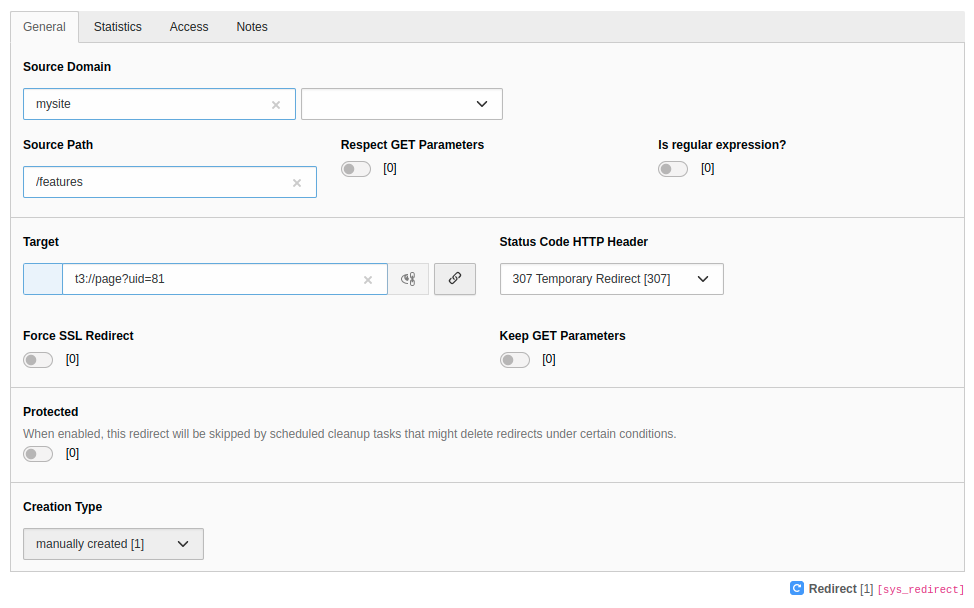
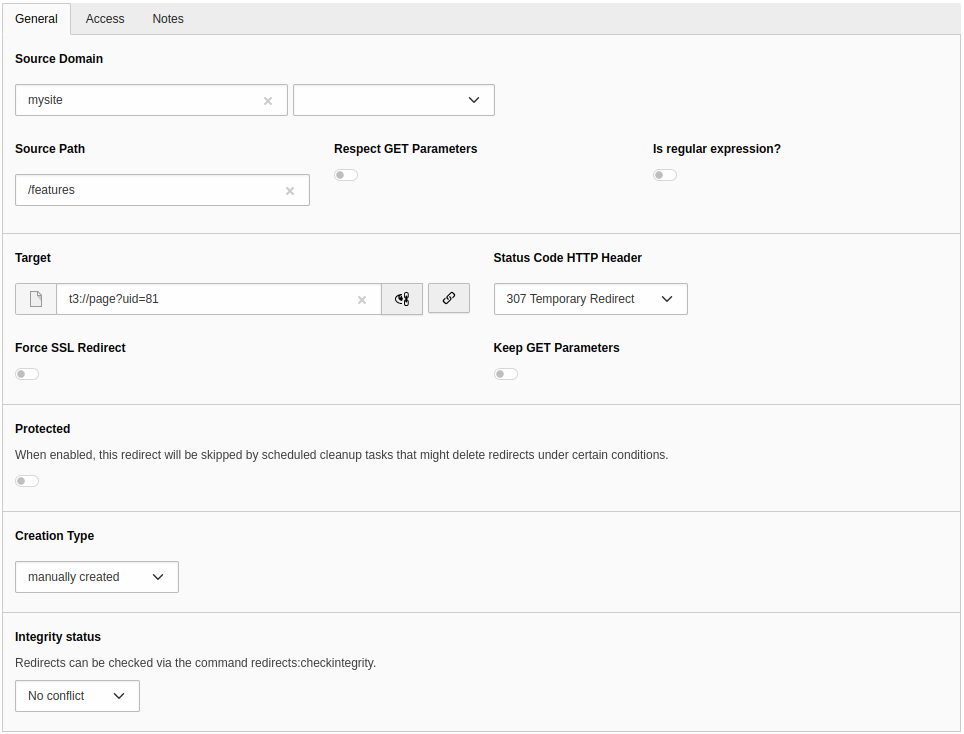
[DOCS] Show the redirect integrity status
Resolves: #103514
Related: #99485
Releases: main

diff --git a/Documentation/Usage/Index.rst b/Documentation/Usage/Index.rst
@@ -170,16 +170,12 @@ General tab
     `https://example.com/all-features`. If there are already query
     parameters in the target field, these are used instead.
 
-----
-
 .. confval:: Protected
 
     :Field: protected
 
     This does not affect the redirect itself. It protects the record from
     automatic deletion (e.g. with redirects:cleanup).
-
-----
 
 .. confval:: Creation Type
 
@@ -188,6 +184,13 @@ General tab
     This field allows to differentiate between redirects that are created
     automatically when the slug of a page is changed and those that are created
     in the backend module by editors.
+
+.. confval:: Integrity Status
+
+    :Field: integrity_status
+
+    This field hints about a broken redirect, for example, if the page references
+    to itself.
 
 
 Statistics tab
